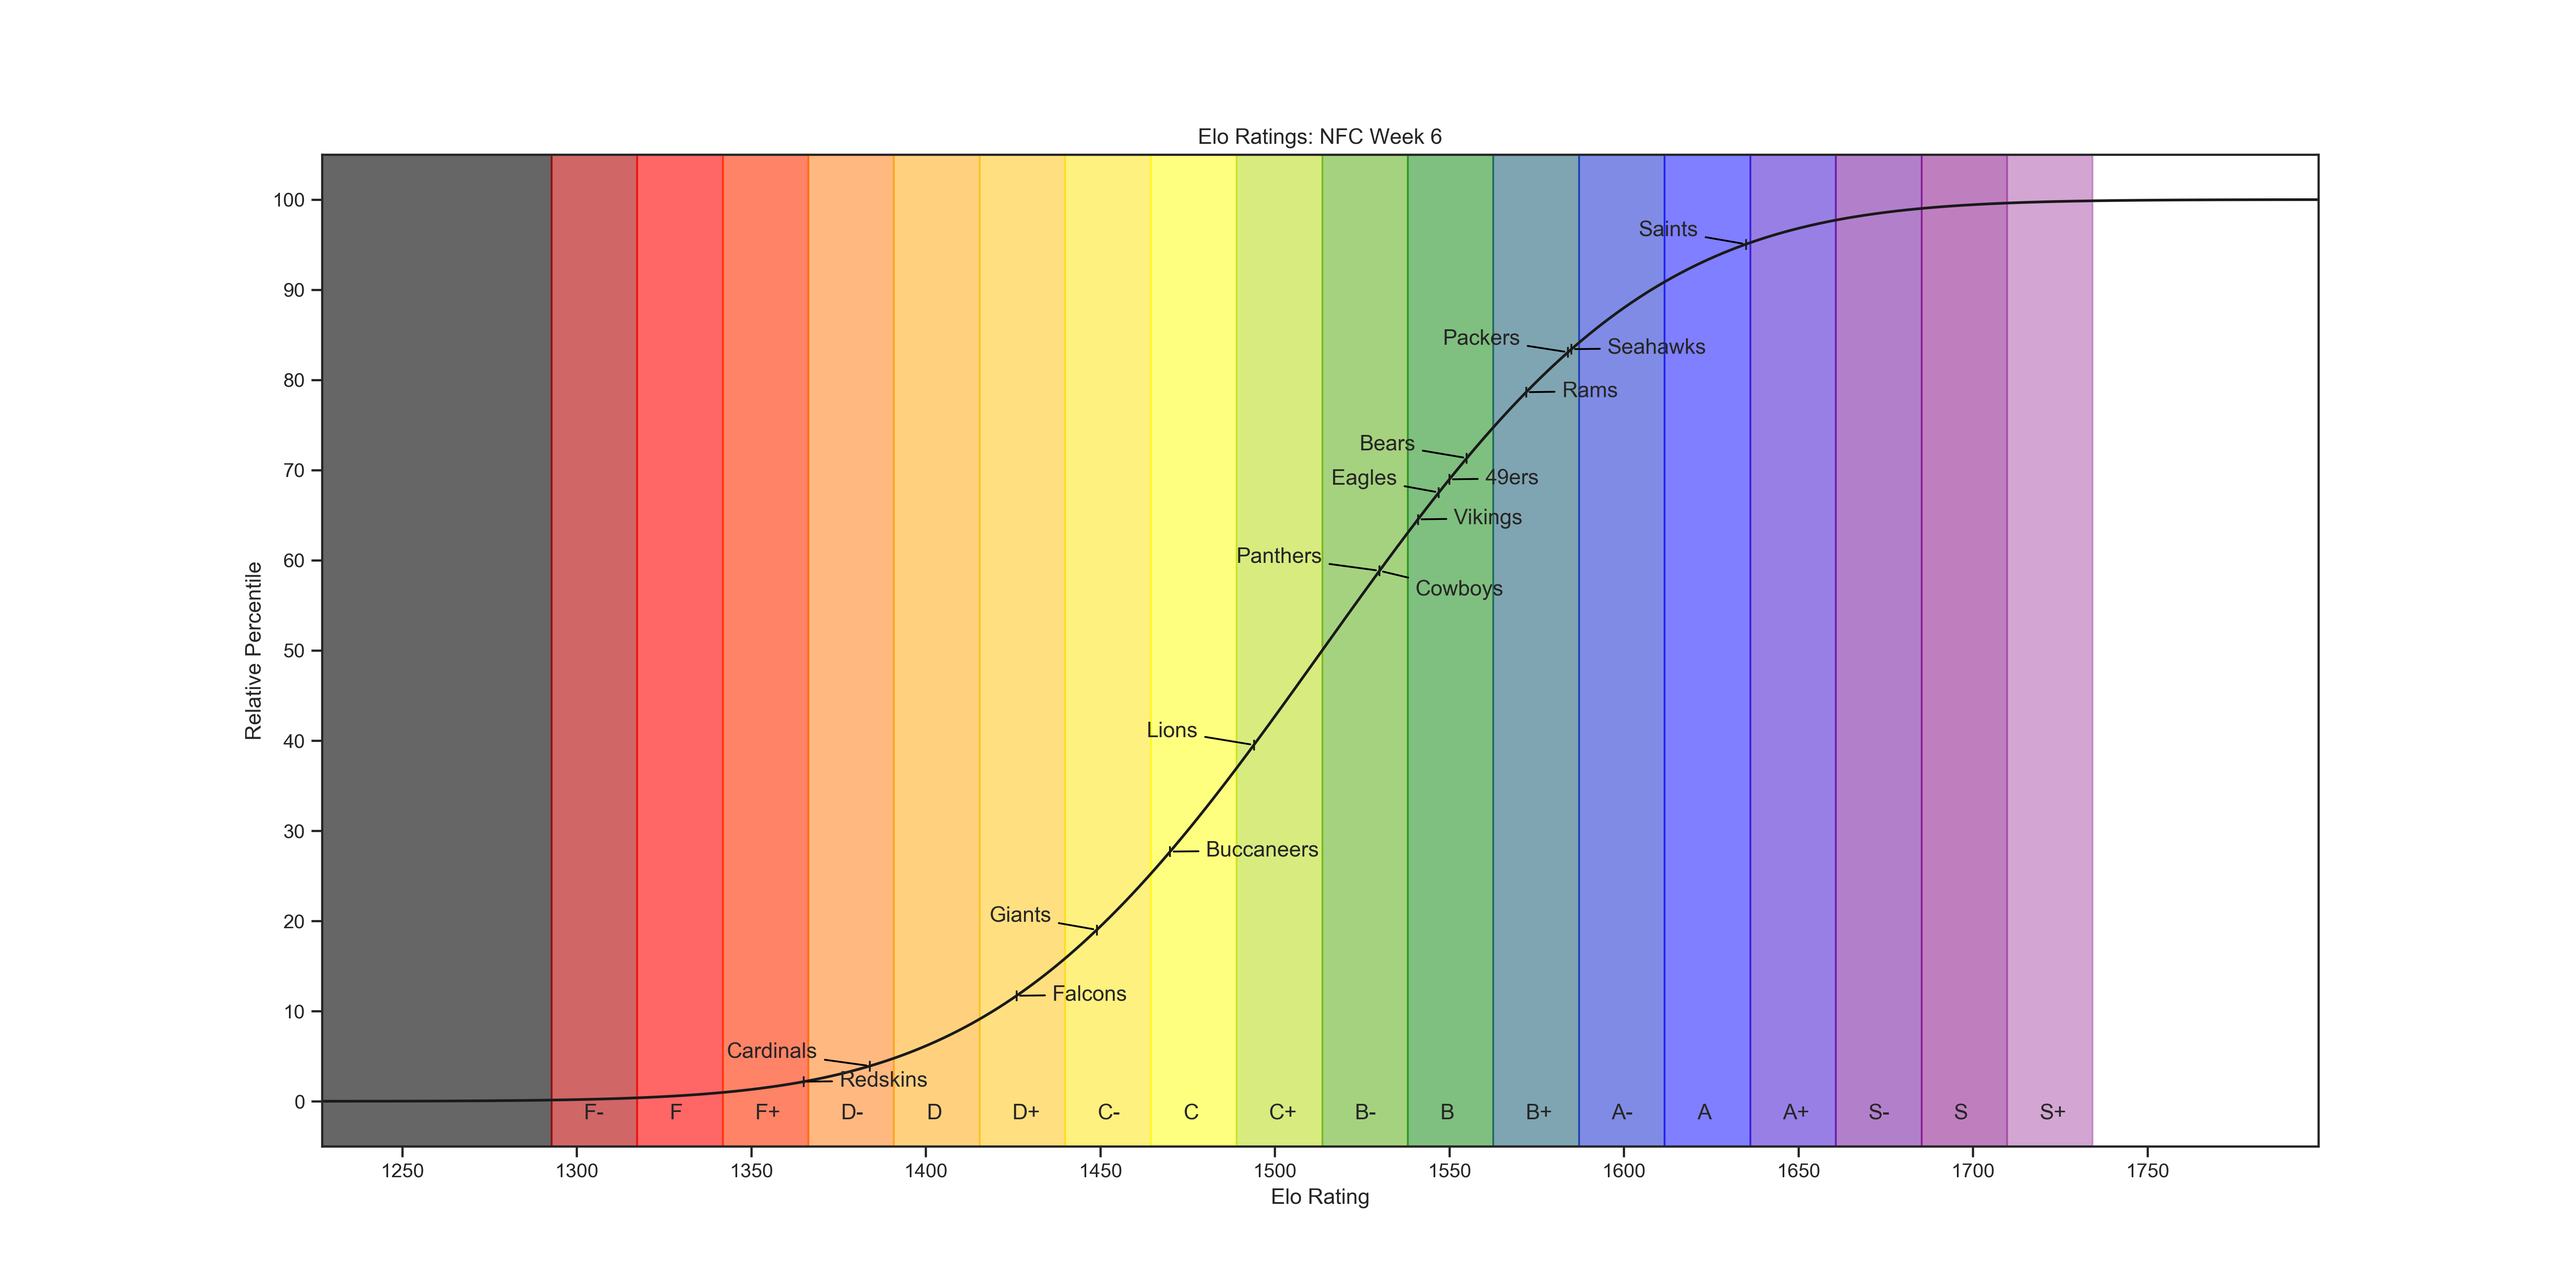
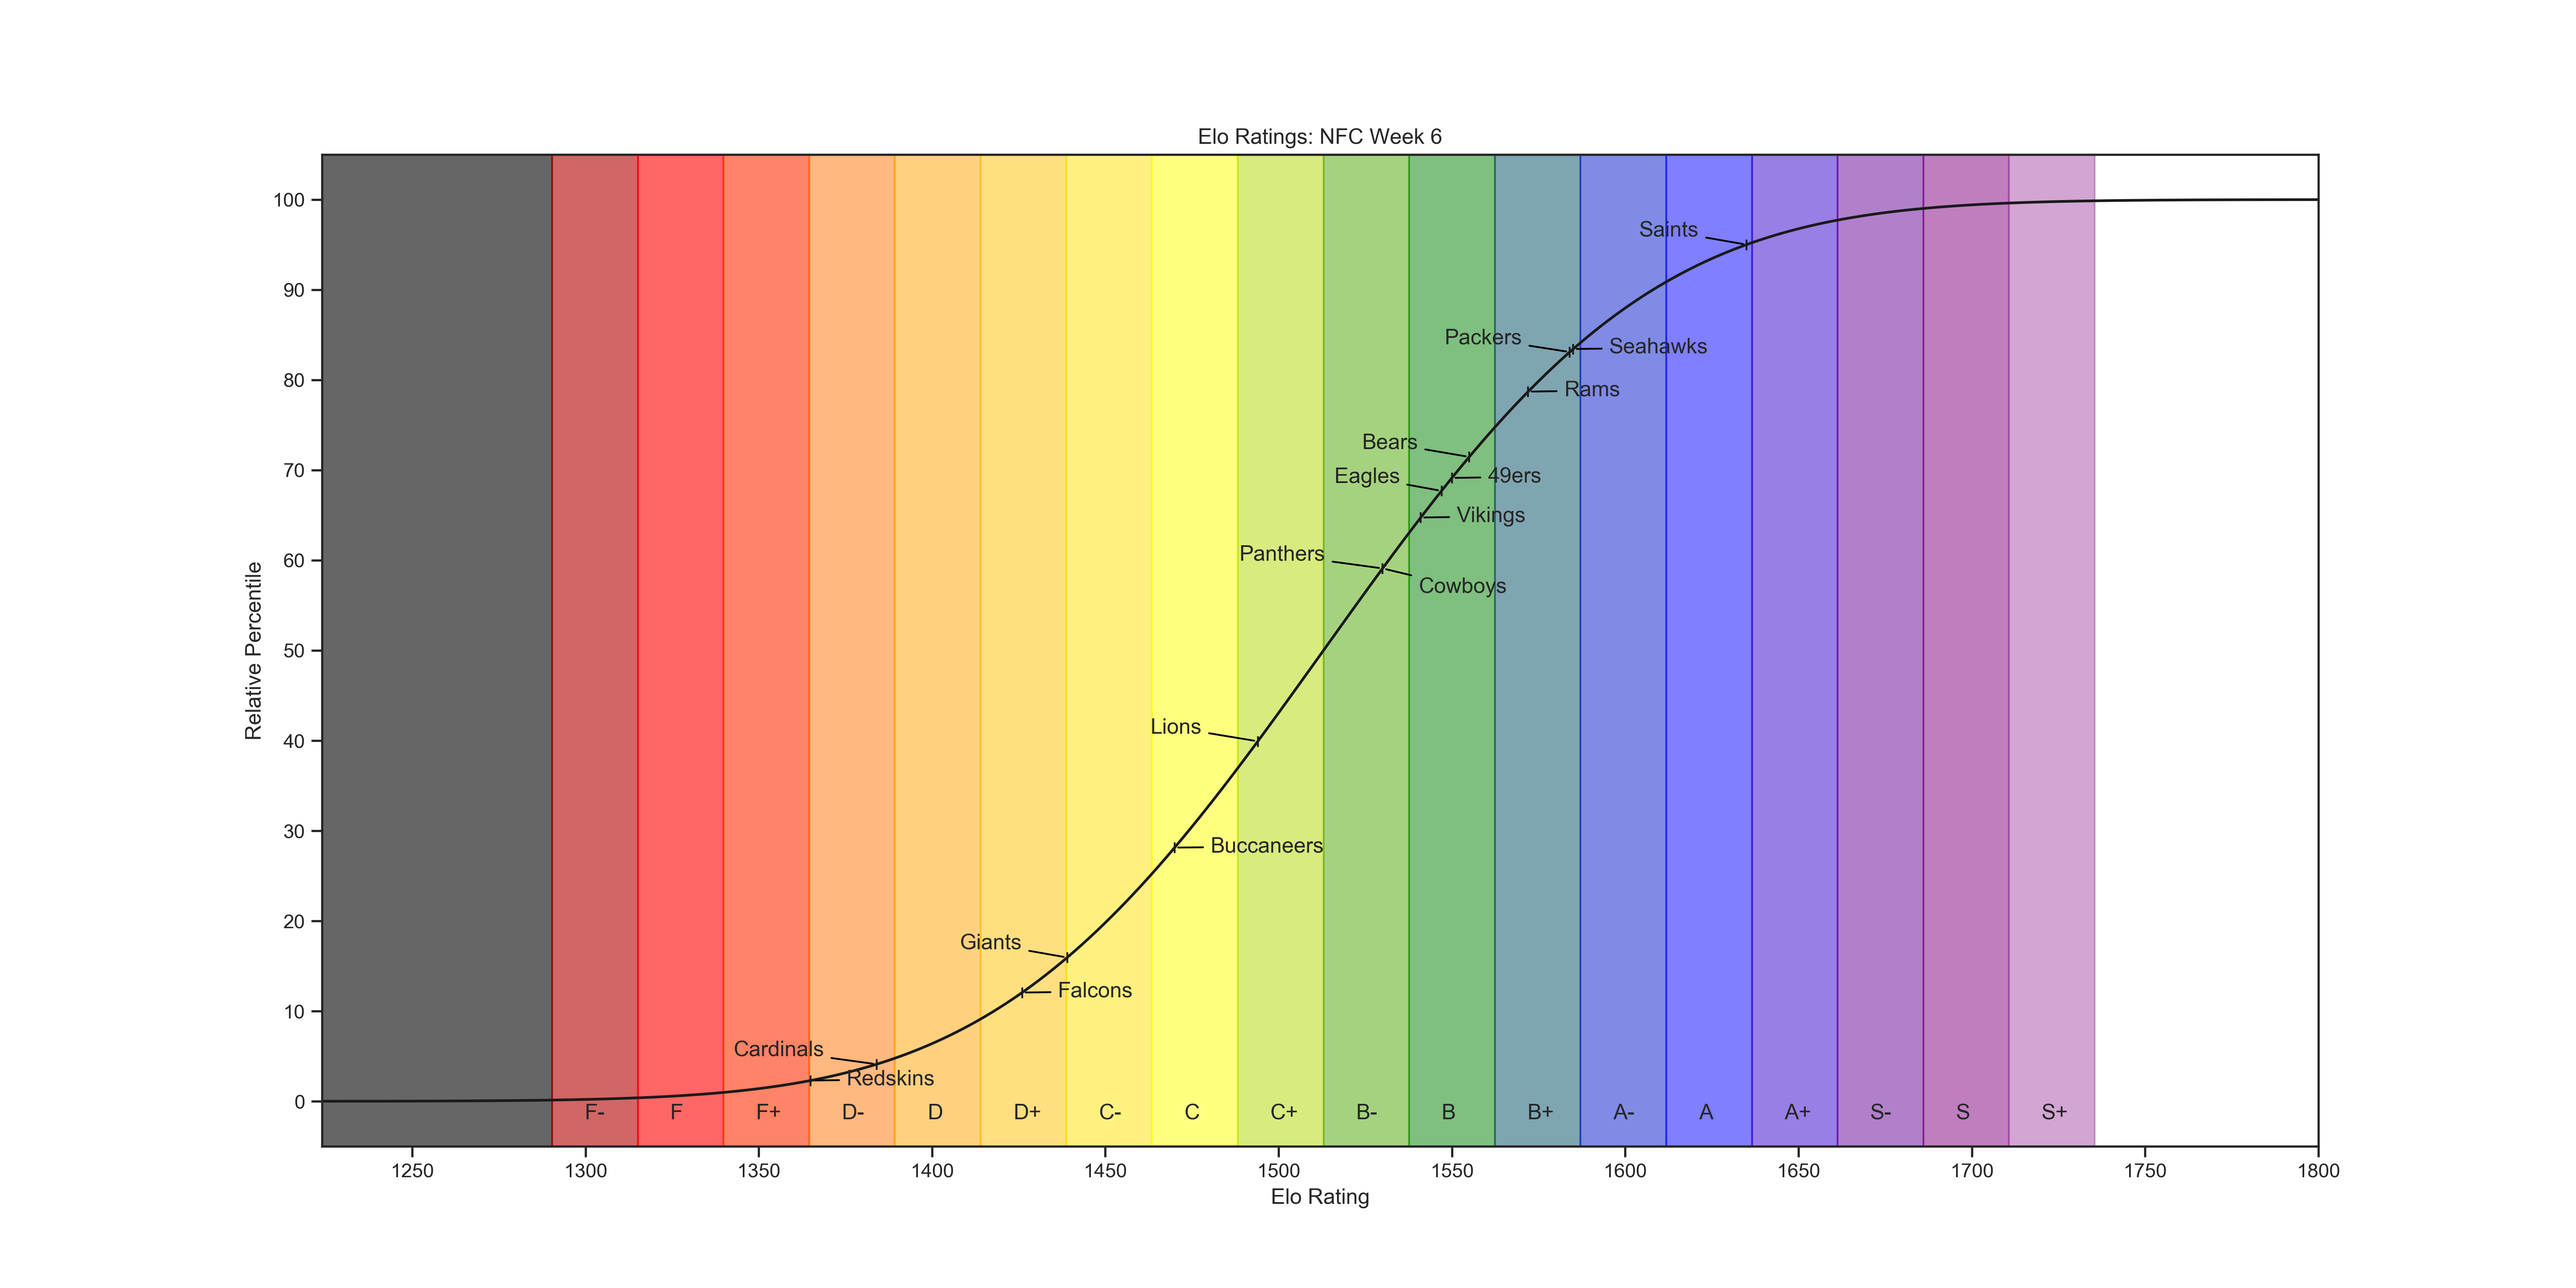
Added week 6 Thursday game

diff --git a/NFLSeason2019.py b/NFLSeason2019.py
@@ -636,27 +636,27 @@ def week_6(teams, week_end_date):
         Predictor.get_week_probabilities(teams, Playoffs.get_week6_schedule(week_end_date))
 
     # Results
-    # teams = set_game_outcome(teams,
-    #                          spread=0,
-    #                          home_name='Patriots',
-    #                          home_score=0,
-    #                          home_touchdowns=0,
-    #                          home_net_pass_yards=0,
-    #                          home_pass_completions=0,
-    #                          home_pass_attempts=0,
-    #                          home_pass_tds=0,
-    #                          home_interceptions_thrown=0,
-    #                          home_total_yards=0,
-    #                          away_name='Giants',
-    #                          away_score=0,
-    #                          away_touchdowns=0,
-    #                          away_net_pass_yards=0,
-    #                          away_pass_completions=0,
-    #                          away_pass_attempts=0,
-    #                          away_pass_tds=0,
-    #                          away_interceptions_thrown=0,
-    #                          away_total_yards=0)
-    #
+    teams = set_game_outcome(teams,
+                             spread=-17,
+                             home_name='Patriots',
+                             home_score=35,
+                             home_touchdowns=4,
+                             home_net_pass_yards=313,
+                             home_pass_completions=31,
+                             home_pass_attempts=41,
+                             home_pass_tds=0,
+                             home_interceptions_thrown=1,
+                             home_total_yards=427,
+                             away_name='Giants',
+                             away_score=14,
+                             away_touchdowns=1,
+                             away_net_pass_yards=161,
+                             away_pass_completions=15,
+                             away_pass_attempts=31,
+                             away_pass_tds=1,
+                             away_interceptions_thrown=3,
+                             away_total_yards=213)
+
     # teams = set_game_outcome(teams, 0,
     #                          'Buccaneers', 0, 0, 0, 0, 0, 0, 0, 0,
     #                          'Panthers', 0, 0, 0, 0, 0, 0, 0, 0)
